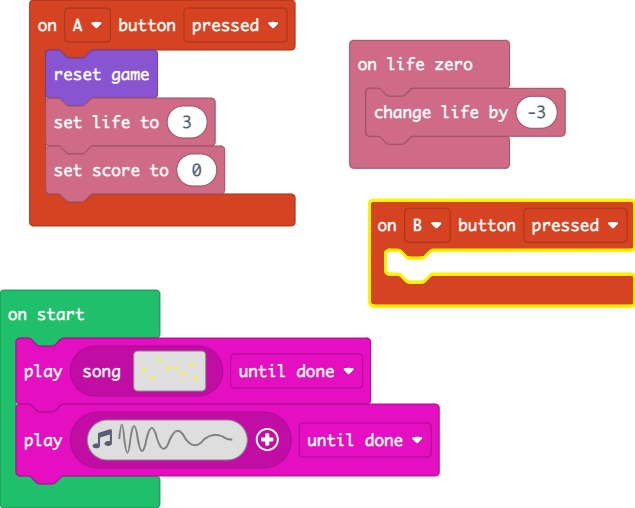
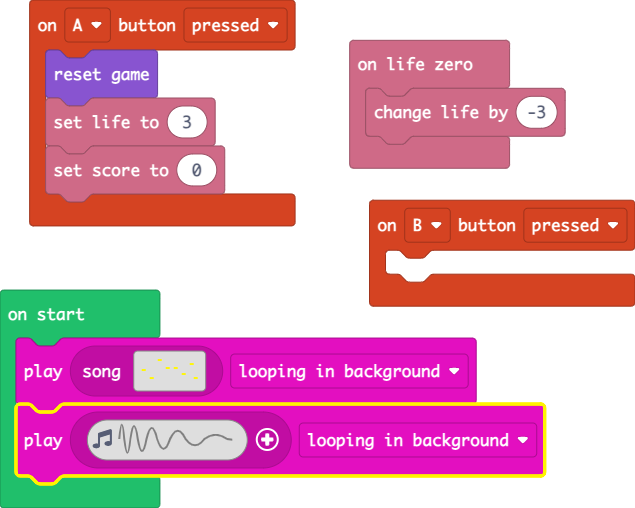
bgm loops

Changed region(s): [[0.0, 0.6496, 0.8677, 0.9449], [0.5685, 0.3839, 1.0, 0.6201], [0.0598, 0.9449, 0.0898, 0.9744]]

diff --git a/main.ts b/main.ts
@@ -9,5 +9,5 @@ controller.A.onEvent(ControllerButtonEvent.Pressed, function () {
 info.onLifeZero(function () {
     info.changeLifeBy(-3)
 })
[1 lines of base64/hex data omitted]
-music.play(music.createSoundEffect(WaveShape.Sine, 5000, 0, 255, 0, 500, SoundExpressionEffect.None, InterpolationCurve.Linear), music.PlaybackMode.UntilDone)
[1 lines of base64/hex data omitted]
+music.play(music.createSoundEffect(WaveShape.Sine, 5000, 0, 255, 0, 500, SoundExpressionEffect.None, InterpolationCurve.Linear), music.PlaybackMode.LoopingInBackground)
